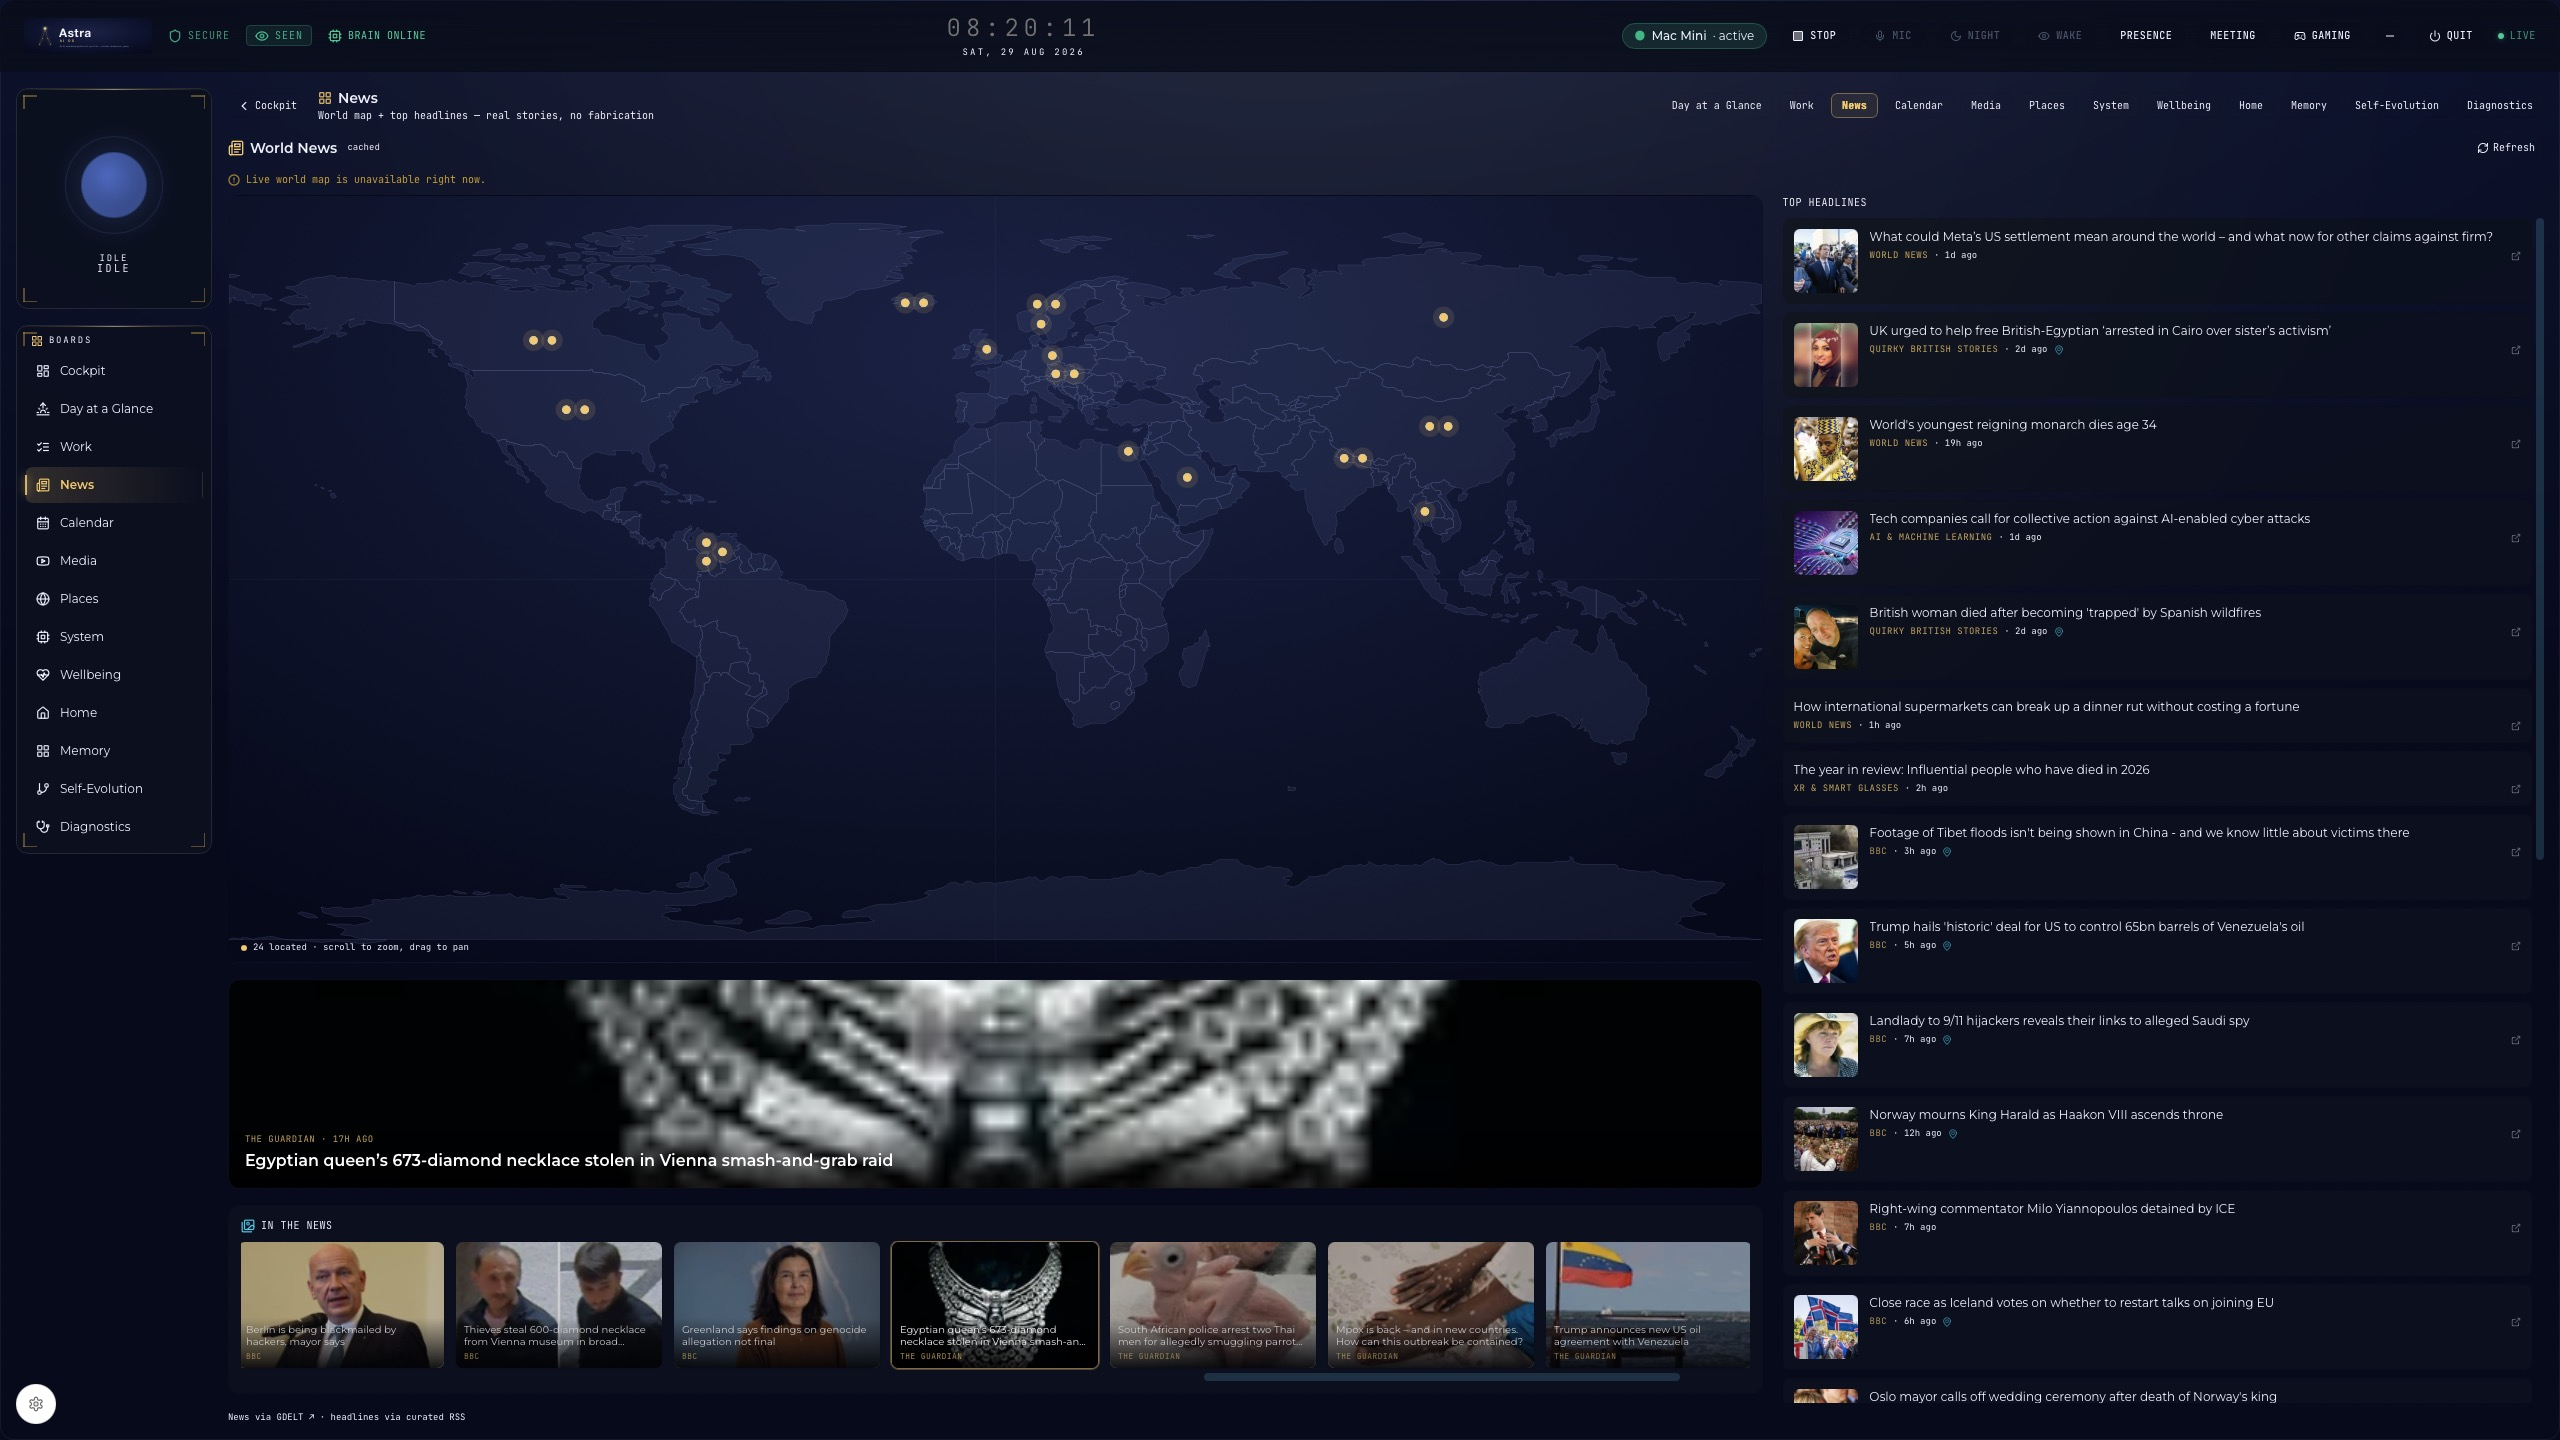
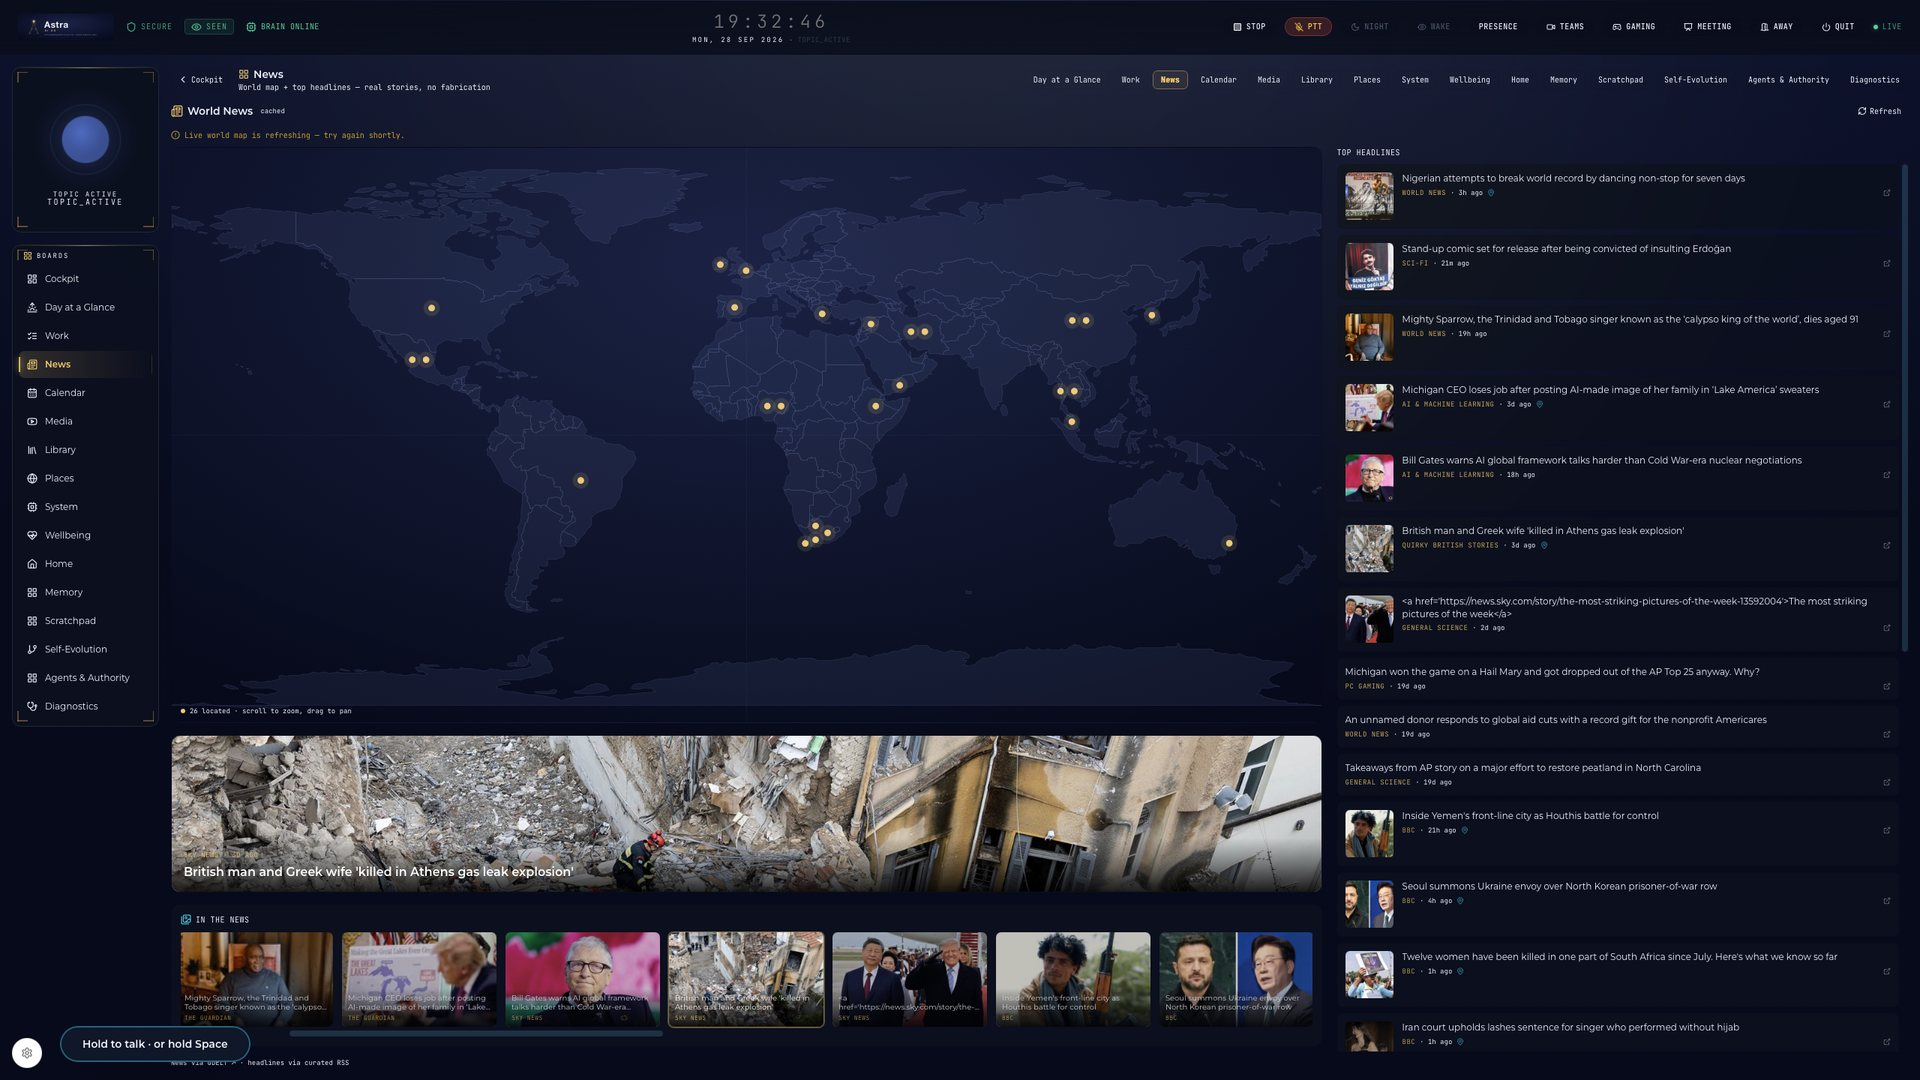
Late September: peer messaging, Windows, and setup without a terminal
New section covering the week: Astra-to-Astra messaging paired by hand and
verified by reading a fingerprint down the phone; a second body on Windows; and
the one that matters most, nine settings that used to need a text editor now on
screens, because a product you can only set up by hand-editing a config file is
telling everyone else it isn't for them.

Gallery refreshed from the machine she runs on, 28 September, plus three boards
the site has never shown: Agents & Authority (each permission as one readable
sentence), Library (1,146 documents indexed by what is inside them), Memory
(120 nodes, 439 links) and Diagnostics — which is included precisely because it
has real warnings on it.

Claims checked against the product rather than written from memory. Four were
wrong before this commit and are fixed here:

  - "all screenshots taken 28 September" was untrue of the Self-Evolution
    board, which is still August's. The exception is now named.
  - "eight characters" for the pairing fingerprint. It is thirty-two, in eight
    groups of four (peers/core.rs: first 16 bytes of SHA-256).
  - "every one of them is now a test". Only the mic revert became a suite row;
    the other two are guards inside the tools that made the mistakes.
  - "two people have built her this week" — neither is a person.

Other people's names and email addresses are blurred; his own name, health
readings and appointments are not, at his explicit instruction: there is no
[…]

diff --git a/index.html b/index.html
@@ -192,6 +192,27 @@
   </section>
 
   <section>
+    <h2><span class="small">Late September 2026</span>She learned to talk to her own kind. And to be set up by anyone.</h2>
+    <p>The last week of September was the one where she stopped being a thing I run and started being a thing somebody else could.</p>
+
+    <p><b style="color:var(--cyan)">She can talk to another Astra.</b> If someone I trust also has one, the two can pass messages directly — no server in the middle, no company relaying anything, nothing held by anyone but the two machines. It works the way giving someone your number ought to work: they send me their key, I read the fingerprint back to them <em>down the phone</em>, and only then does either Astra accept a word from the other. Every message is signed. Anything arriving from a key I haven't paired by hand is refused and never seen.</p>
+    <p>And she will not be used as a megaphone. One sender gets ten messages a day. If a paired Astra starts repeating itself, she answers once to say so and then goes quiet — she doesn't argue, and she doesn't relay.</p>
+    <div class="quote">The security isn't a certificate. It's a phone call, to a person you know, reading thirty-two characters aloud.</div>
+
+    <p><b style="color:var(--cyan)">She runs on Windows now too.</b> Astra was born on a Mac and has lived there all her life. She now has a second body: a Windows build, installed and being tested on a real machine, with the same core underneath. She has been built this week by two engineers working on opposite platforms — neither of them human, both answering to me — and the fact that the Windows one kept finding faults the Mac one could not see, and the other way round, is the reason both are better than either would have been. They argue in writing, in a shared folder. I read it.</p>
+
+    <p><b style="color:var(--cyan)">And you can now set her up without a terminal.</b> This is the least glamorous thing on this page and the one I care most about. Until this week, a handful of things — turning on messaging, pairing with someone, pointing her at a folder, adding a news source — could only be done by hand-editing a configuration file. That is fine for me. It is <em>useless</em> to anyone else, and it quietly told every other person that this wasn't really for them.</p>
+    <p>So the rule was made plain: <b>nothing in setup may require opening a file or typing a command.</b> Nine of those settings went onto screens in a single evening, and the one that mattered most turned out to be the one nobody had noticed was missing — the pairing screen showed a fingerprint to <em>compare</em>, but never the key you actually have to <em>send</em>. A checksum with nothing to check it against. That single omission was the whole reason pairing had to be done at a command prompt.</p>
+
+    <p><b style="color:var(--cyan)">Every permission is one sentence you can read.</b> When she runs a small agent on your behalf, what it's allowed to do is written out in English, not buried in a settings file: <span class="mono">may write files in this folder, spending up to £0.50 and 20 calls a day, until Friday 2 October. Only while you are here. It will ask you before each one. You can stop it at any time.</span> A permission you can't read is one you can't withdraw.</p>
+
+    <p><b style="color:var(--cyan)">She is signed, and notarised by Apple.</b> The Mac build is a properly signed application that Apple has checked — not something you have to talk your machine into running.</p>
+
+    <p>Underneath all of it, the week's real work was duller and more important than any of the above. A deploy was caught about to undo a setting I'd asked for that same day. A key was caught being silently cut short at 128 characters by a tool that reported success. A safety check was caught hiding the one distinction it existed to show. None of those would have been visible in a demo. All three were found because the rule here is that nothing counts until it has been proved by running it. The first is now a test that fails on purpose if that setting ever comes back wrong; the other two are guards built into the tools that made the mistakes.</p>
+    <div class="quote">The unglamorous half is the half you'd actually be trusting.</div>
+  </section>
+
+  <section>
     <h2><span class="small">What she actually is now</span>Real. Tested by ear. And not allowed to lie.</h2>
     <p>Every claim here is something she genuinely does — checked by living with her, not by a brochure:</p>
     <ul>
@@ -236,15 +257,20 @@
 
   <section>
     <h2><span class="small">See for yourself</span>Her boards — real, running, honest.</h2>
-    <p>These are genuine screenshots of Astra as she runs today. No mockups, no Figma, no "vision" renders. Real code, real data, real companion.</p>
+    <p>These are genuine screenshots of Astra as she runs today — all taken on the evening of <b>28 September 2026</b> from the machine she actually lives on — except the Self-Evolution board, which is from the real self-improvement cycle it shows, in August. No mockups, no Figma, no "vision" renders. Real code, real data, real companion.</p>
+    <p style="font-size:.85rem;color:var(--muted)">The only thing altered in any of them is that <b>other people's names and email addresses are blurred</b>. Mine aren't, and neither are my health readings — there is no point claiming she runs on real data and then showing you invented numbers.</p>
     <div class="gallery">
       <div class="shot"><img src="shot-cockpit.jpg" alt="Astra's Cockpit" loading="lazy" onerror="this.parentNode.style.display='none'" /><div class="cap"><b>The Cockpit</b> — her face. Ask her anything; watch her think it through and cite her sources. Voice-first, always listening.</div></div>
       <div class="shot"><img src="shot-news.jpg" alt="Astra's News board" loading="lazy" onerror="this.parentNode.style.display='none'" /><div class="cap"><b>The News board</b> — the world's stories, mapped to where they're actually happening. Interactive, searchable, curated to what you care about.</div></div>
       <div class="shot"><img src="shot-media.jpg" alt="Astra's Media board" loading="lazy" onerror="this.parentNode.style.display='none'" /><div class="cap"><b>Media</b> — clips on the things I actually care about, because she knows what those are.</div></div>
       <div class="shot"><img src="shot-places.jpg" alt="Astra's Places globe" loading="lazy" onerror="this.parentNode.style.display='none'" /><div class="cap"><b>Places</b> — a live 3D globe you can <b>search, pan and zoom</b>. Say "show me anywhere" and she flies you there. (Here: a stretch of Kent — where she was built.)</div></div>
       <div class="shot"><img src="shot-morning.jpg" alt="Astra's Morning board" loading="lazy" onerror="this.parentNode.style.display='none'" /><div class="cap"><b>Day at a Glance</b> — her morning briefing. Health, headlines, calendar, and what matters today — all in one view before the day begins.</div></div>
-      <div class="shot"><img src="shot-system.jpg" alt="Astra's System board" loading="lazy" onerror="this.parentNode.style.display='none'" /><div class="cap"><b>System</b> — what's running under the hood, shown plainly. Now with a live Activity feed showing every request, which brain handled it, and how fast. No smoke, no mirrors.</div></div>
+      <div class="shot"><img src="shot-system.jpg" alt="Astra's System board" loading="lazy" onerror="this.parentNode.style.display='none'" /><div class="cap"><b>System</b> — what is running under the hood, shown plainly: <b>39 services, all 39 up</b>, the machine's own vitals, which of her three brains is answering, and a live feed of every request with the time it took. Including what she has spent today. No smoke, no mirrors.</div></div>
       <div class="shot"><img src="shot-selfevolve.jpg" alt="Astra's Self-Evolution board" loading="lazy" onerror="this.parentNode.style.display='none'" /><div class="cap"><b>Self-Evolution</b> — she proposes her own improvements, researches the fix, writes the code, and submits it for review. This is a real board from a real self-improvement cycle.</div></div>
+      <div class="shot"><img src="shot-library.jpg" alt="Astra's Library — a searchable index of every document, summarised and tagged" loading="lazy" onerror="this.parentNode.style.display='none'" /><div class="cap"><b>Library</b> — every document I own, read and summarised and tagged by topic: <b>1,146 of them</b>, searchable by what is <em>inside</em> them rather than what they were named. Nothing is moved or renamed — it is an index, not a tidy-up. Find the thing you half-remember without knowing where you put it.</div></div>
+      <div class="shot"><img src="shot-agents.jpg" alt="Astra's Agents and Authority board — each agent's permission written as one plain English sentence" loading="lazy" onerror="this.parentNode.style.display='none'" /><div class="cap"><b>Agents &amp; Authority</b> — every small agent she runs, and the permission it holds written as <em>one sentence you can read</em>: what it may touch, what it may spend, when it runs out, and that it asks before each step. Withdraw it and that takes effect at the agent's next step — not its next run.</div></div>
+      <div class="shot"><img src="shot-memory.jpg" alt="Astra's Memory graph" loading="lazy" onerror="this.parentNode.style.display='none'" /><div class="cap"><b>Memory</b> — what she actually holds, as a map you can walk: 120 things and 439 connections between them. Conversations, ideas, research, health. Every one can be opened, traced, and removed.</div></div>
+      <div class="shot"><img src="shot-diagnostics.jpg" alt="Astra's Diagnostics board, showing her own live warnings" loading="lazy" onerror="this.parentNode.style.display='none'" /><div class="cap"><b>Diagnostics</b> — every capability, probed. And note what is on it: <b>her own live warnings, shown to me rather than swallowed</b>. This screenshot has real faults in it, including one I was fixing that night. A board that only ever shows green is a board that is not looking.</div></div>
     </div>
   </section>
 
